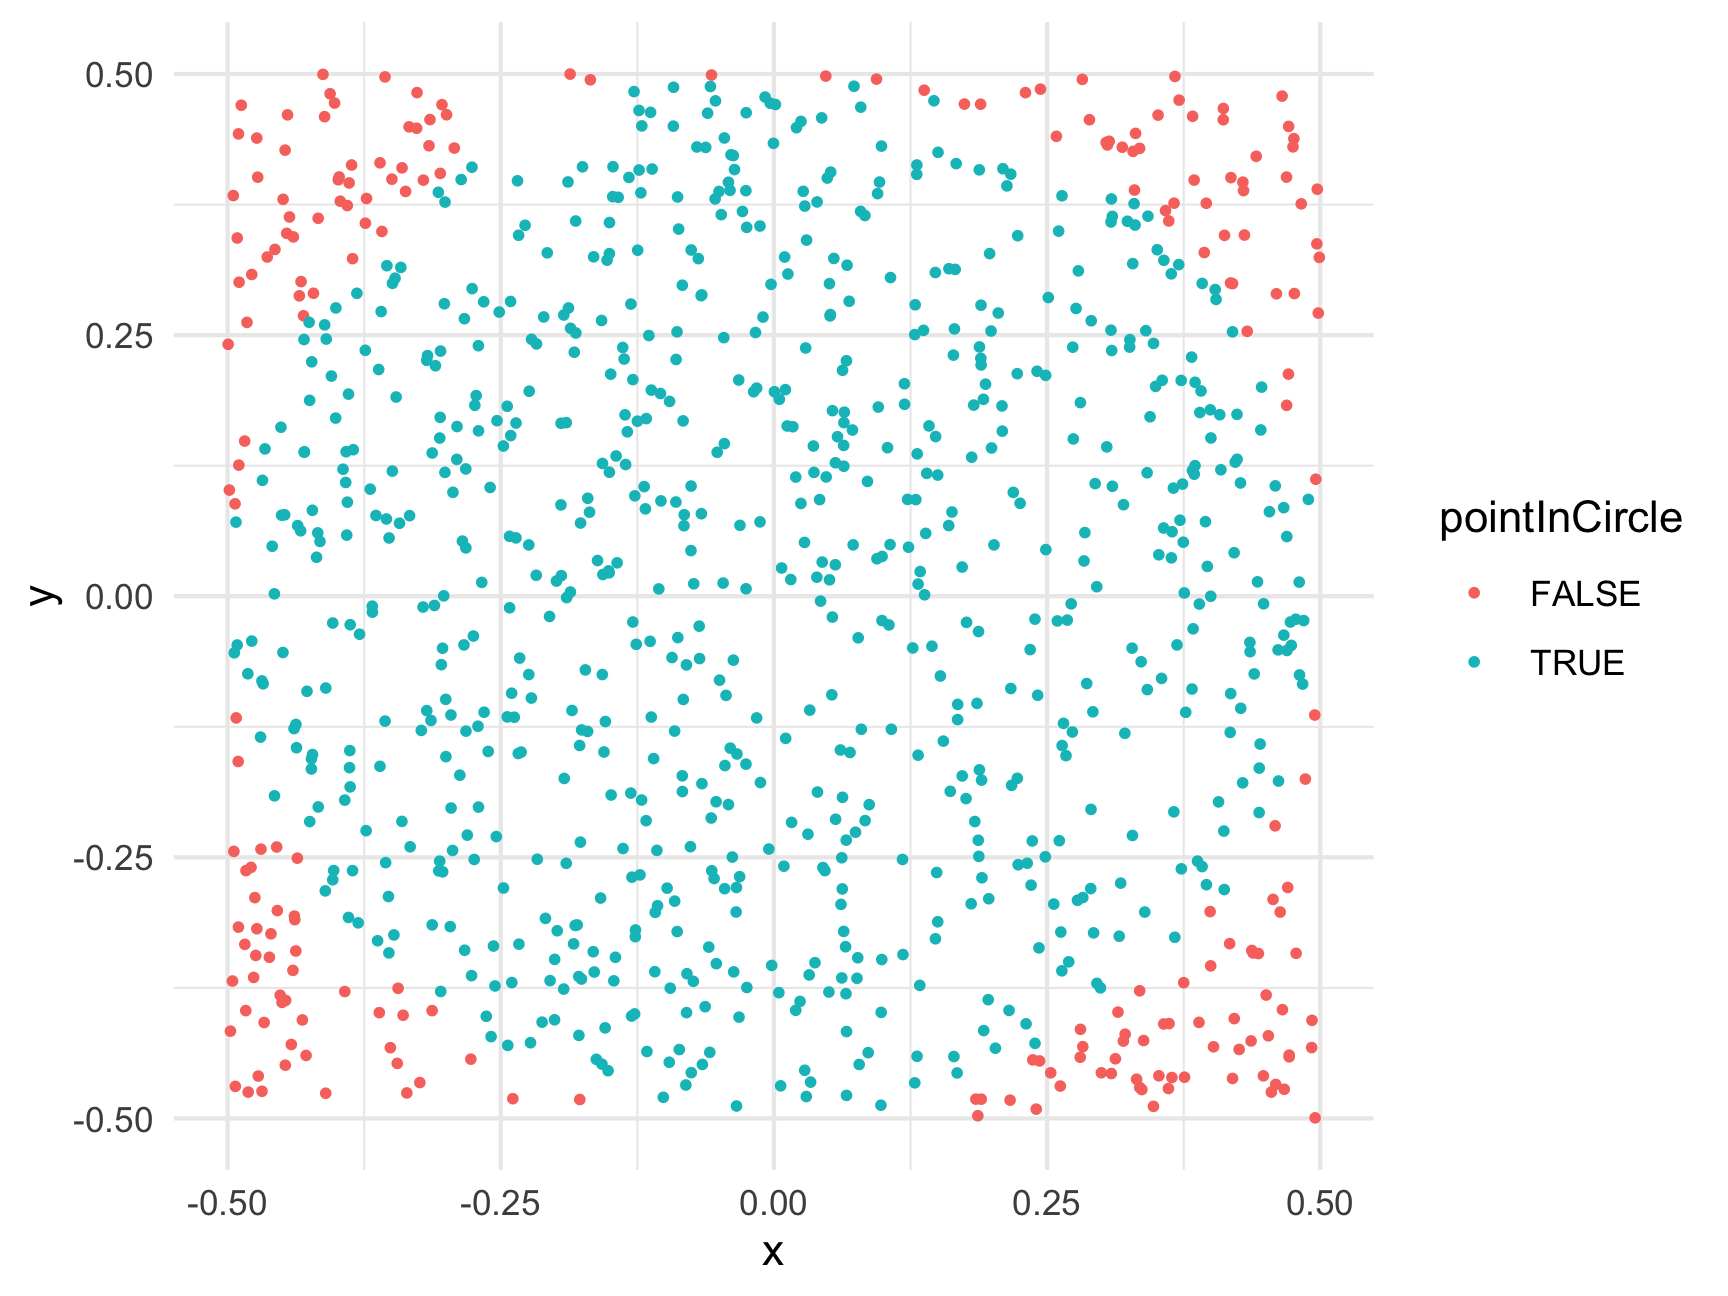
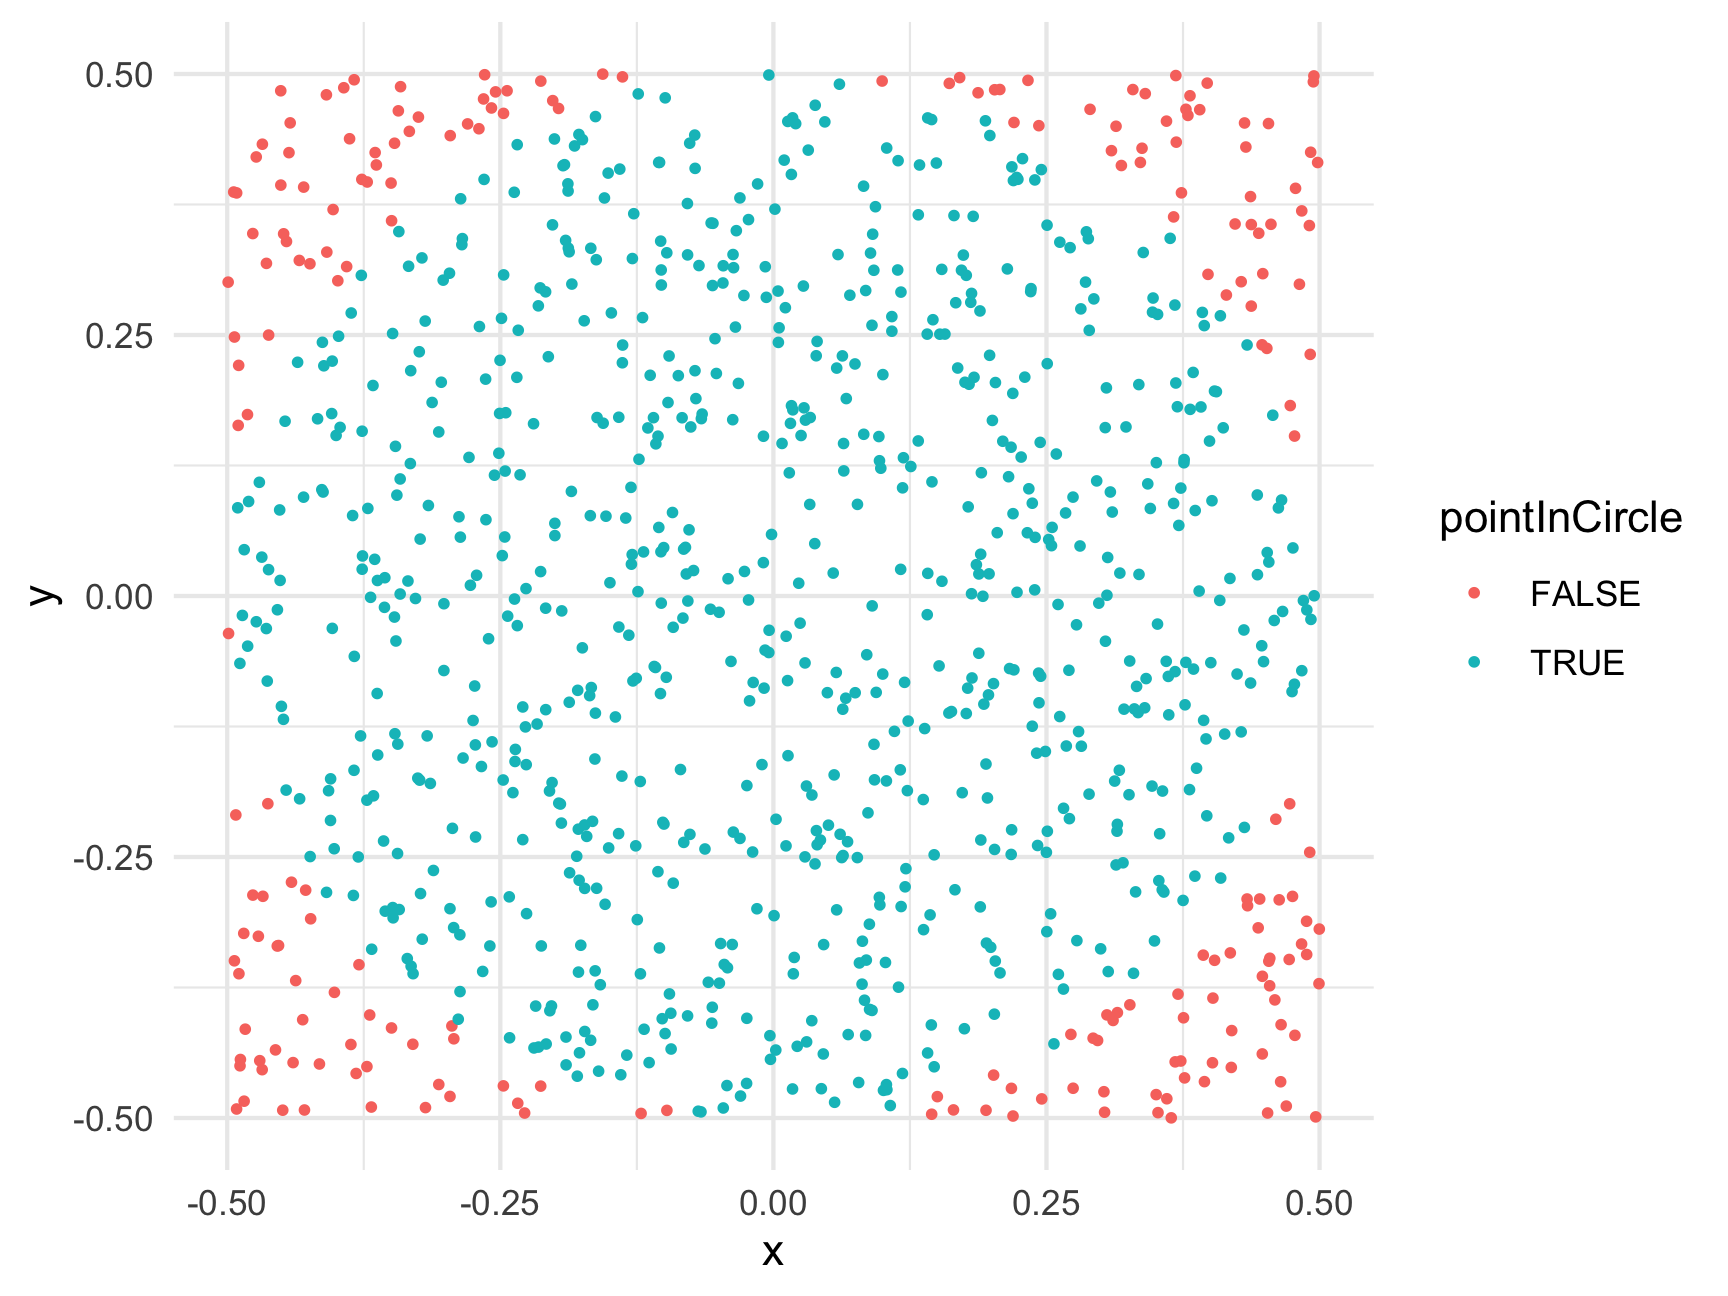
Deploying to gh-pages from  @ 0a02fc60c0c0991b330f11c6aefbb2216e6f74bf 🚀

Changed region(s): [[0.125, 0.0309, 0.7812, 0.8642], [0.125, 0.463, 0.1562, 0.5247]]

diff --git a/r13-monte-carlo-methods.html b/r13-monte-carlo-methods.html
@@ -766,11 +766,11 @@ ratio &lt;- sum(belowCurve) / numTrials
 totalArea &lt;- (7 - 3) * 7^2 # Rectangle length x height = 196
 areaUnderCurve &lt;- ratio * totalArea
 areaUnderCurve</code></pre>
-<pre><code>#&gt; [1] 105.7596</code></pre>
-<p>So, using Monte Carlo simulation with 100,000 points, we estimate that the area under the curve is 105.75964. How’d we do? Well, if you’re familiar with calculus, the integral of <span class="math inline">\(f(x) = x^2\)</span> has a closed-form solution (<span class="math inline">\(\frac{x^3}{3} + C\)</span>), so we can check our estimate against the pure-math solution:</p>
+<pre><code>#&gt; [1] 105.6832</code></pre>
+<p>So, using Monte Carlo simulation with 100,000 points, we estimate that the area under the curve is 105.6832. How’d we do? Well, if you’re familiar with calculus, the integral of <span class="math inline">\(f(x) = x^2\)</span> has a closed-form solution (<span class="math inline">\(\frac{x^3}{3} + C\)</span>), so we can check our estimate against the pure-math solution:</p>
 <p><span class="math display">\[\int_{3}^{7} x^2 \mathrm{dx} = \left ( \frac{x^3}{3} \right ) \Big|_3^7 = \frac{7^3}{3} - \frac{3^3}{3} = 105.33\bar{3}\]</span></p>
-<p>So our estimate error is: <code>105.333 -</code> <code>105.75964</code> <code>=</code> <code>-0.4263067</code>.</p>
-<p>That’s an error of just 0.4 % - not bad!</p>
+<p>So our estimate error is: <code>105.333 -</code> <code>105.6832</code> <code>=</code> <code>-0.3498667</code>.</p>
+<p>That’s an error of just 0.33 % - not bad!</p>
 <hr />
 </div>
 <div id="monte-carlo-pi" class="section level1">
@@ -800,13 +800,13 @@ points &lt;- data.frame(
     x = runif(numTrials, -0.5, 0.5),
     y = runif(numTrials, -0.5, 0.5))
 head(points)</code></pre>
-<pre><code>#&gt;            x          y
-#&gt; 1  0.3822699  0.2289566
-#&gt; 2 -0.1425622  0.3819686
-#&gt; 3 -0.4232666 -0.1556224
-#&gt; 4 -0.1249425  0.1675975
-#&gt; 5  0.1681652 -0.1035814
-#&gt; 6  0.4567917 -0.2902596</code></pre>
+<pre><code>#&gt;             x           y
+#&gt; 1 -0.16669885 -0.08768147
+#&gt; 2 -0.01902094 -0.24523657
+#&gt; 3  0.23246397  0.06057334
+#&gt; 4  0.06315724  0.22997610
+#&gt; 5  0.06107740 -0.22824336
+#&gt; 6 -0.11887941  0.04222686</code></pre>
 <p>For this example, we’re putting the points in a data frame to make it easier to work with. Now that we have random x and y points, let’s compute the radius to each point (the distance from <code>(x, y) = (0, 0)</code>) so we can determine which points fall inside the circle (which has a radius of 0.5):</p>
 <pre class="r"><code>library(dplyr)
 points &lt;- points %&gt;%
@@ -823,9 +823,9 @@ ggplot(points) +
 <pre class="r"><code>ratio &lt;- sum(points$pointInCircle) / nrow(points)
 piApprox &lt;- 4 * ratio
 piApprox</code></pre>
-<pre><code>#&gt; [1] 3.104</code></pre>
-<p>So our estimate error is: <code>3.1415 -</code> <code>3.104</code> <code>=</code> <code>-0.0375927</code>.</p>
-<p>That’s an error of just 1.2 % - not bad for only 1,000 points!</p>
+<pre><code>#&gt; [1] 3.132</code></pre>
+<p>So our estimate error is: <code>3.1415 -</code> <code>3.132</code> <code>=</code> <code>-0.0095927</code>.</p>
+<p>That’s an error of just 0.31 % - not bad for only 1,000 points!</p>
 <p>To get an even better estimate of <span class="math inline">\(\pi\)</span>, we can increase N. Let’s see what we get with 100,000 trials:</p>
 <pre class="r"><code>numTrials &lt;- 100000
 points &lt;- data.frame(
@@ -837,13 +837,13 @@ points &lt;- data.frame(
 ratio &lt;- sum(points$pointInCircle) / nrow(points)
 piApprox &lt;- 4 * ratio
 piApprox</code></pre>
-<pre><code>#&gt; [1] 3.1384</code></pre>
+<pre><code>#&gt; [1] 3.14728</code></pre>
 <pre class="r"><code># Compute error:
 error &lt;- piApprox - pi
 percentError &lt;- round(100*abs(error / pi), 2)
 percentError</code></pre>
-<pre><code>#&gt; [1] 0.1</code></pre>
-<p>By increasing the number of trials from 1,000 to 100,000, we improved our estimate error from 1.2 % to 0.1 %!</p>
+<pre><code>#&gt; [1] 0.18</code></pre>
+<p>By increasing the number of trials from 1,000 to 100,000, we improved our estimate error from 0.31 % to 0.18 %!</p>
 <hr />
 <p><strong>Page sources</strong>:</p>
 <p>Some content on this page has been modified from other courses, including:</p>

diff --git a/r2-functions-packages.html b/r2-functions-packages.html
@@ -724,7 +724,7 @@ div.tocify {
 <p>Here the letters <code>sqrt</code> are short for “square root,” and the value inside the <code>()</code> is the “argument” to the function. In the example above, the value <code>225</code> is the “argument”.</p>
 <p>Keep in mind that not all functions have (or require) arguments:</p>
 <pre class="r"><code>date() # Returns the current date and time</code></pre>
-<pre><code>#&gt; [1] &quot;Fri Dec 31 20:34:47 2021&quot;</code></pre>
+<pre><code>#&gt; [1] &quot;Tue Jan 11 12:26:58 2022&quot;</code></pre>
 <p>(the date above is the date this page was last built)</p>
 <div id="multiple-arguments" class="section level2">
 <h2>Multiple arguments</h2>
@@ -942,9 +942,9 @@ library(packagename)   # This also works</code></pre>
 <p>Now that you have the package installed on your computer, try loading it using <code>library(wikifacts)</code>, then trying using some of it’s functions:</p>
 <pre class="r"><code>library(wikifacts) # Load the library</code></pre>
 <pre class="r"><code>wiki_randomfact()</code></pre>
-<pre><code>#&gt; [1] &quot;Did you know that despite being a prolific artist of 19th-century London, Robert Blemmell Schnebbelie died of starvation in Camden Town? (Courtesy of Wikipedia)&quot;</code></pre>
+<pre><code>#&gt; [1] &quot;Did you know that superintendent Marcus Ames resigned in protest after plans were announced to introduce workhouses to the Lancaster Industrial School for Girls in Massachusetts? (Courtesy of Wikipedia)&quot;</code></pre>
 <pre class="r"><code>wiki_didyouknow()</code></pre>
-<pre><code>#&gt; [1] &quot;Did you know that Sir Lancelot Barrington-Ward removed the appendix of Prince Albert, who later became King George VI? (Courtesy of Wikipedia)&quot;</code></pre>
+<pre><code>#&gt; [1] &quot;Did you know that in 1972, \&quot;Prime Minister\&quot; David Sanchez led an occupation of Catalina Island by the Brown Berets meant to draw attention on the continuing struggles of Mexican-Americans in the United States? (Courtesy of Wikipedia)&quot;</code></pre>
 <p>In case you’re wondering, the only thing this package does is generate messages containing random facts from <a href="https://www.wikipedia.org/">Wikipedia</a>.</p>
 </div>
 <div id="using-only-some-package-functions" class="section level2">
@@ -955,7 +955,7 @@ library(packagename)   # This also works</code></pre>
 </blockquote>
 <p>Here I use the name of the <em>package</em> followed by <code>::</code> to tell R that I’m looking for a function that is in that package. For example, if I didn’t want to load the whole <strong>wikifacts</strong> library but still wanted to use the <code>wiki_randomfact()</code> function, I could do this:</p>
 <pre class="r"><code>wikifacts::wiki_randomfact()</code></pre>
-<pre><code>#&gt; [1] &quot;Did you know that on March 29 in 1981 – Dick Beardsley and Inge Simonsen jointly won the Men&#39;s Elite Race and Joyce Smith won the Women&#39;s Elite Race in the inaugural London Marathon. (Courtesy of Wikipedia)&quot;</code></pre>
+<pre><code>#&gt; [1] &quot;Here&#39;s some news from 10 December 2018. Former U.S. President George H. W. Bush dies at the age of 94. (Courtesy of Wikipedia)&quot;</code></pre>
 <p>Where this is particularly handy is when two packages have a function with the same name. If you load both library, R might not know which function to use. In those cases, it’s best to also provide the <strong>package</strong> name. For example, let’s say there was a package called <strong>apples</strong> and another called <strong>bananas</strong>, and each had a function named <code>fruitName()</code>. If I wanted to use each of them in my code, I would need to specify the package names like this:</p>
 <pre class="r"><code>apples::fruitName()
 bananas::fruitName()</code></pre>

diff --git a/ref-course-software.html b/ref-course-software.html
@@ -652,6 +652,9 @@ $(document).ready(function () {
 </tbody>
 </table>
 </div>
+<ol start="3" style="list-style-type: decimal">
+<li>Sign up for <a href="https://rstudio.cloud/plans/free">RStudio cloud</a> (the free version). It’s basically the same thing as RStudio, but accessible via a web browser. If things aren’t working on your computer, this is a great backup to quickly get back to working in R!</li>
+</ol>
 <p>That’s it - you’re all set for class!</p>
 
 <hr>
